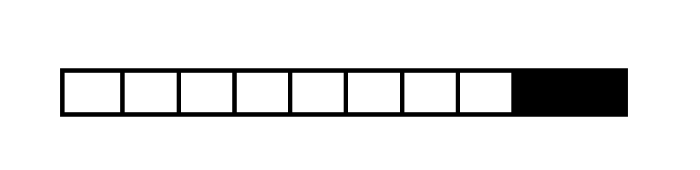
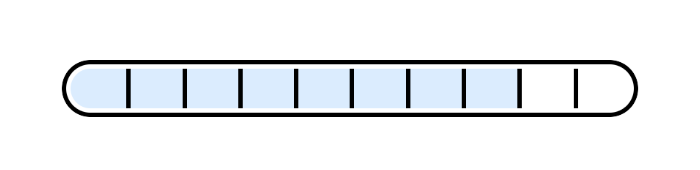
Update example project

Changed region(s): [[0.06, 0.3529, 0.93, 0.7059]]

diff --git a/Example/RetroProgressDemo/RetroProgressDemo/Sources/ViewController.swift b/Example/RetroProgressDemo/RetroProgressDemo/Sources/ViewController.swift
@@ -4,24 +4,22 @@ import RetroProgress
 final class ViewController: UIViewController {
   private lazy var progressView = self.makeProgressView()
   private lazy var button: UIButton = self.makeButton()
+  private let styleGuide = StyleGuide()
+
+  override var preferredStatusBarStyle: UIStatusBarStyle {
+    return .lightContent
+  }
 
   // MARK: - View lifecycle
 
   override func viewDidLoad() {
     super.viewDidLoad()
-    title = "RetroProgress"
-
-    view.backgroundColor = .white
+    view.backgroundColor = styleGuide.primaryColor
     view.addSubview(progressView)
     view.addSubview(button)
 
     button.addTarget(self, action: #selector(handleButtonTap), for: .touchUpInside)
     setupConstraints()
-  }
-
-  override func viewDidLayoutSubviews() {
-    super.viewDidLayoutSubviews()
-    progressView.layer.cornerRadius = progressView.frame.height / 2
   }
 
   // MARK: - Action
@@ -39,7 +37,7 @@ final class ViewController: UIViewController {
 
     let constraints = [
       progressView.widthAnchor.constraint(equalTo: view.widthAnchor, multiplier: 0.7),
-      progressView.heightAnchor.constraint(equalTo: progressView.widthAnchor, multiplier: 0.1),
+      progressView.heightAnchor.constraint(equalTo: progressView.widthAnchor, multiplier: 0.12),
       progressView.centerXAnchor.constraint(equalTo: view.centerXAnchor),
       progressView.centerYAnchor.constraint(equalTo: view.centerYAnchor),
 
@@ -55,23 +53,32 @@ final class ViewController: UIViewController {
 
 private extension ViewController {
   func makeProgressView() -> ProgressView {
-    let progressView = ProgressView(frame: CGRect(x: 0, y: 0, width: 200, height: 20))
-
+    let progressView = ProgressView()
     progressView.fullProgressAnimationDuration = 3
-    progressView.progressInset = .init(top: 4, left: 4, bottom: 4, right: 4)
-    progressView.layer.borderColor = UIColor.black.cgColor
-    progressView.trackColor = .white
-    progressView.progressColor = UIColor(red: 218/255, green: 236/255, blue: 255/255, alpha: 1)
-    progressView.separatorColor = .black
+
+    // The same as default ProgressView styles
+    progressView.progressInset = .init(top: 8, left: 8, bottom: 8, right: 8)
+    progressView.layer.borderColor = styleGuide.progressColor.cgColor
+    progressView.trackColor = styleGuide.primaryColor
+    progressView.progressColor = styleGuide.progressColor
+    progressView.separatorColor = styleGuide.primaryColor
 
     return progressView
   }
 
   func makeButton() -> UIButton {
     let button = UIButton(type: .system)
-    button.setTitle("Animate", for: .normal)
-    button.setTitleColor(.black, for: .normal)
+    button.setTitle("Animate!".uppercased(), for: .normal)
+    button.setTitleColor(styleGuide.buttonColor, for: .normal)
     button.titleLabel?.font = UIFont.boldSystemFont(ofSize: 18)
     return button
   }
+}
+
+// MARK - Styles
+
+private struct StyleGuide {
+  let primaryColor = UIColor(red: 11/255, green: 36/255, blue: 251/255, alpha: 1)
+  let progressColor = UIColor.white
+  let buttonColor = UIColor.red
 }

diff --git a/Example/RetroProgressDemo/RetroProgressDemo/Sources/AppDelegate.swift b/Example/RetroProgressDemo/RetroProgressDemo/Sources/AppDelegate.swift
@@ -4,16 +4,12 @@ import RetroProgress
 @UIApplicationMain
 final class AppDelegate: UIResponder, UIApplicationDelegate {
   var window: UIWindow?
-
   private lazy var viewController = ViewController()
-  private lazy var navigationController = UINavigationController(
-    rootViewController: self.viewController
-  )
 
   func application(_ application: UIApplication,
                    didFinishLaunchingWithOptions launchOptions: [UIApplicationLaunchOptionsKey: Any]?) -> Bool {
     window = UIWindow(frame: UIScreen.main.bounds)
-    window?.rootViewController = navigationController
+    window?.rootViewController = viewController
     window?.makeKeyAndVisible()
 
     return true
